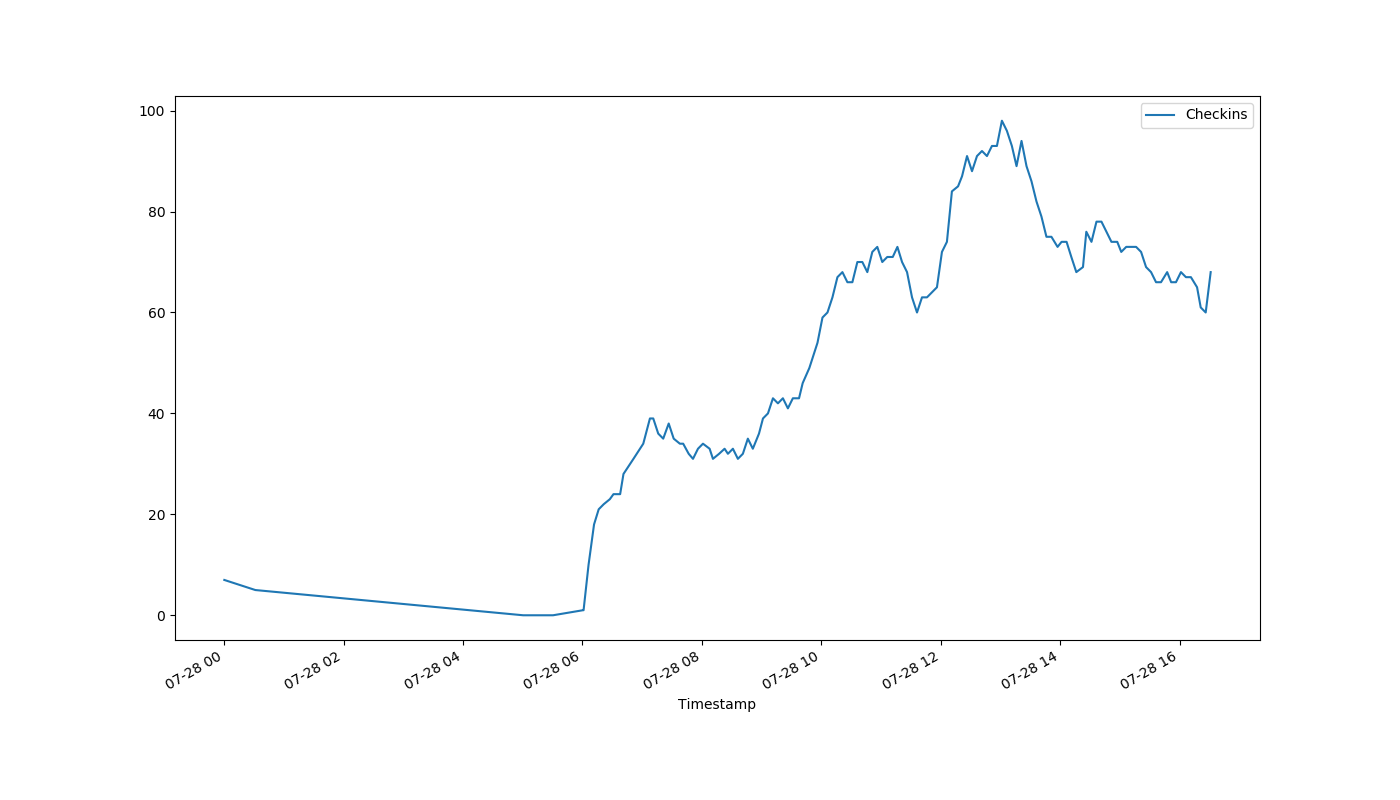
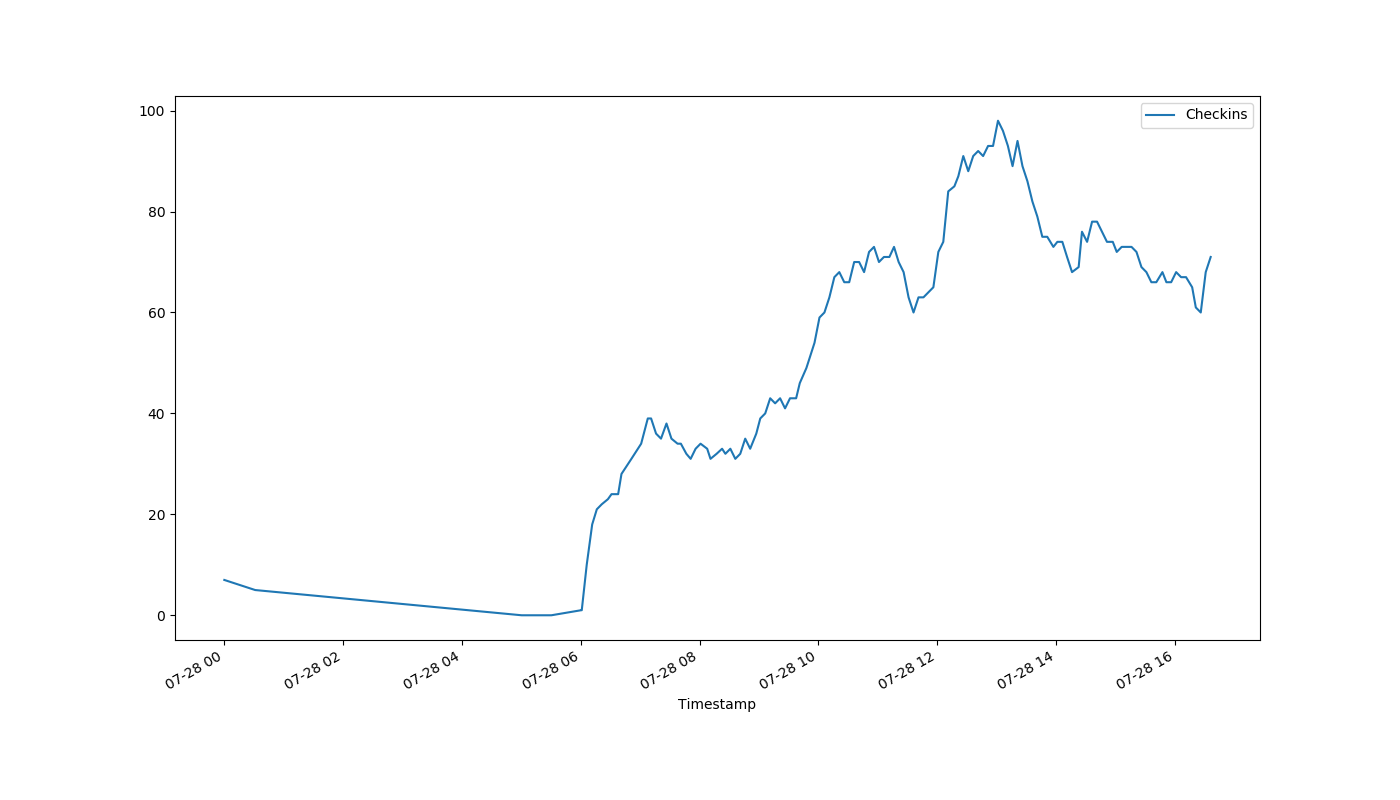
auto-Jul-28-16:37:44

diff --git a/index.html b/index.html
@@ -1,1 +1,1 @@
-<!DOCTYPE html><html><head><meta http-equiv="refresh" content="30"><link rel='stylesheet' href='holmcurrent.css'></head><body><p id='count'>68</p><div id='graph-wrap'><img id='graph' src='holmgraph-Jul-28.png'></div><p id='updated'>Last updated 16:31:11 / 16:31:01</p></body></html>
+<!DOCTYPE html><html><head><meta http-equiv="refresh" content="30"><link rel='stylesheet' href='holmcurrent.css'></head><body><p id='count'>71</p><div id='graph-wrap'><img id='graph' src='holmgraph-Jul-28.png'></div><p id='updated'>Last updated 16:36:12 / 16:36:01</p></body></html>
